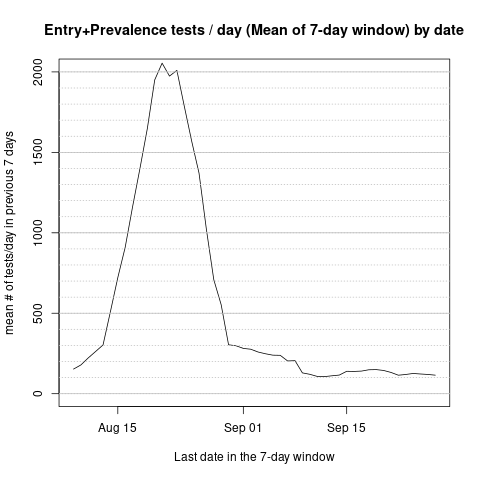
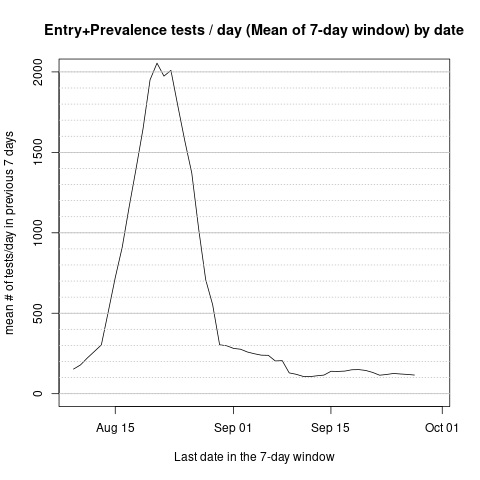
Oct 2 update

diff --git a/README.md b/README.md
@@ -31,6 +31,8 @@ Currently the reports are for the periods:
    * [Sept 10 to Sept 16](https://protect.ku.edu/sites/protect/files/documents/Dashboard/COVID-19_Dashboard_Sept10toSept16.pdf)
    * [Sept 14 to Sept 20](https://protect.ku.edu/sites/protect/files/documents/Dashboard/COVID-19_Dashboard_Sept14toSept20.pdf)
    * [Sept 17 to Sept 23](https://protect.ku.edu/sites/protect/files/documents/Dashboard/COVID-19_Dashboard_Sept17toSept23.pdf)
+   * [Sept 21 to Sept 27](https://protect.ku.edu/sites/protect/files/documents/Dashboard/COVID-19_Dashboard_Sept21toSept27.pdf)
+   * [Sept 24 to Sept 30](https://protect.ku.edu/sites/protect/files/documents/Dashboard/COVID-19_Dashboard_Sept24toSept30.pdf)
  
 None of the reports trace the test-positivity percentage over time, which I was interested in.
 For a time-series of test-positivity rates to be easily interpreted as a proxy of the campus-wide prevalence of SARS-CoV-2 infections, it is important to either have detailed knowledge of the biases associated with targeted testing, or to focus on the entry tests and "randomized prevalence testing."
